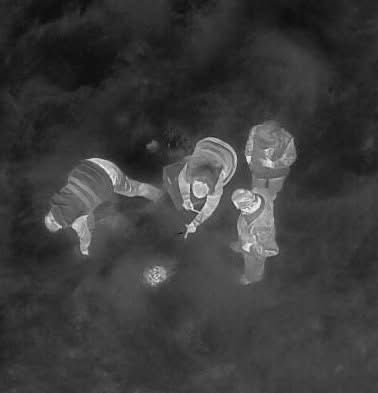
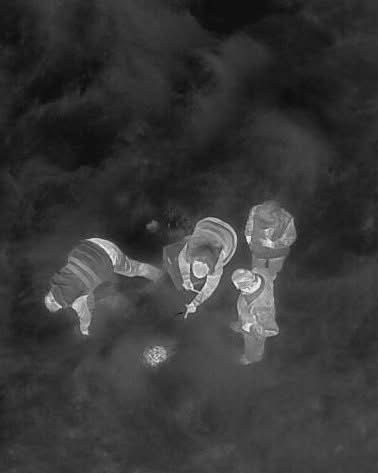
Neue Fotos: Rehkitz im Gras (3-fache Auflösung), Wärmebild vollständig, Drohnenstart bei Nacht, Kinder lernen die Drohne kennen
Claude-Session: https://claude.ai/code/session_01SvUTgmYBcr7ZNo88VgeWhH

diff --git a/kitzrettung-website/src/pages/ueber-uns.html b/kitzrettung-website/src/pages/ueber-uns.html
@@ -122,7 +122,7 @@ image: /images/about-nachwuchsarbeit.jpg
         <div class="kachel__text"><div class="kachel__nummer">01</div><h3>Moderne Technik &amp; Einsatz</h3><p>Mit unseren vereinseigenen Drohnenteams suchen wir Wiesen im Morgengrauen mit Wärmebildkameras ab. Pilotinnen, Spotter und Helfer sichern gefundene Kitze behutsam und lassen sie nach der Mahd am Fundort wieder frei.</p></div></div>
       <div class="kachel"><div class="kachel__bild"><img src="/images/about-starke-gemeinschaft.jpg" alt="Die Helferinnen und Helfer stehen gemeinsam auf einer Wiese." loading="lazy"></div>
         <div class="kachel__text"><div class="kachel__nummer">02</div><h3>Starke Gemeinschaft</h3><p>Landwirtschaft, Jagd und unser ehrenamtliches Team stimmen sich eng ab. Viele von uns starten noch vor Sonnenaufgang – weil jede helfende Hand zählt. Mitmachen kannst du ab 16 Jahren.</p></div></div>
-      <div class="kachel"><div class="kachel__bild"><img src="/images/news/kinder-kitzrettung-2026.jpg" alt="Kinder lernen die Kitzrettung kennen." loading="lazy" style="object-position:bottom"></div>
+      <div class="kachel"><div class="kachel__bild"><img src="/images/kita-drohne-erklaeren.jpg" alt="Vereinsmitglieder zeigen Kindern in Warnwesten eine Drohne." loading="lazy" style="object-position:center 30%"></div>
         <div class="kachel__text"><div class="kachel__nummer">03</div><h3>Nachwuchsarbeit &amp; Umweltbildung</h3><p>Bei Aktionen in Kindergärten und Grundschulen entdecken Kinder heimische Wildtiere und lernen, der Natur mit Respekt zu begegnen.</p></div></div>
     </div>
   </div>

diff --git a/kitzrettung-website/src/pages/mitmachen/drohnenpilot.html b/kitzrettung-website/src/pages/mitmachen/drohnenpilot.html
@@ -14,7 +14,7 @@ image: /images/drone-gallery-preflight.jpg
 
 <section class="abschnitt">
   <div class="container zweispaltig">
-    <div class="zweispaltig__bild"><img src="/images/drone-gallery-preflight.jpg" alt="Drohnenpiloten bereiten die Drohne auf dem Landeplatz vor." loading="lazy" style="aspect-ratio:4/5"></div>
+    <div class="zweispaltig__bild"><img src="/images/drohnenstart-nacht.jpg" alt="Ein Drohnenpilot mit Stirnlampe hält vor Sonnenaufgang die beleuchtete Drohne zum Start hoch, daneben der Landeplatz." loading="lazy" style="aspect-ratio:4/5;object-position:center 35%"></div>
     <div>
       <h2>Deine Aufgaben im Team</h2>
       <ul class="haken">
@@ -37,7 +37,7 @@ image: /images/drone-gallery-preflight.jpg
   <div class="container">
     <h2>Eindrücke aus gemeinsamen Einsätzen</h2>
     <div class="galerie">
-      <img src="/images/search-process-step-05-drone-launch.jpg" alt="Ein Drohnenpilot hält die Drohne vor dem Start hoch." loading="lazy">
+      <img src="/images/drone-gallery-preflight.jpg" alt="Das Drohnenteam bereitet am Landeplatz den Flug vor." loading="lazy">
       <img src="/images/drones-info-thermal.jpg" alt="Wärmebildansicht einer Wiese aus der Luft." loading="lazy">
       <img src="/images/drones-card-team.jpg" alt="Das Drohnenteam bereitet die Ausrüstung vor." loading="lazy">
       <img src="/images/search-process-step-06-ground.jpg" alt="Drohnenaufnahme der Helfer an der Fundstelle." loading="lazy">

diff --git a/kitzrettung-website/src/pages/methoden-der-kitzrettung.html b/kitzrettung-website/src/pages/methoden-der-kitzrettung.html
@@ -15,7 +15,7 @@ image: /images/methods-vergraemung.jpg
   <div class="container">
     <ol class="schritte">
       <li class="schritt">
-        <div class="schritt__bild"><img src="/images/search-process-step-06-thermal.jpg" alt="Wärmebild einer Wiese, auf dem ein Kitz als heller Punkt zu sehen ist." loading="lazy"></div>
+        <div class="schritt__bild"><img src="/images/search-process-step-06-thermal.jpg" alt="Wärmebild aus der Luft: Helfer stehen an der Fundstelle, das Kitz leuchtet als heller Fleck im kühlen Gras." loading="lazy" style="object-position:center 72%"></div>
         <div class="schritt__text"><span class="kicker">Effektivste Methode</span><span class="schritt__wann">Häufig ab 04:00 Uhr</span><h3>Drohnensuche mit Wärmebildkamera</h3>
           <p>In den frühen Morgenstunden fliegt das Team die Wiese systematisch ab. Die Wärmebildkamera macht Temperaturunterschiede zwischen einem Tier und dem kühleren Gras sichtbar.</p>
           <ul><li>Pilot und Spotter beobachten das Wärmebild und halten Funkkontakt zu den Helfern am Boden.</li><li>Gefundene Kitze werden in einer geschützten Box gesichert und nach der Mahd freigelassen.</li></ul></div>

diff --git a/kitzrettung-website/src/pages/index.html b/kitzrettung-website/src/pages/index.html
@@ -51,7 +51,7 @@ description: Kitzrettung Limburg e. V. – ehrenamtliche Rehkitzrettung mit Wär
         <div class="kachel__text"><h3>Drohne</h3><p>Wärmebilddrohnen fliegen die Wiese auf einer geplanten Route ab – meist schon ab 4 Uhr morgens, solange das Gras noch kühl ist.</p></div>
       </div>
       <div class="kachel">
-        <div class="kachel__bild"><img src="/images/search-process-step-06-thermal.jpg" alt="Wärmebild einer Wiese mit einem hellen Punkt – dem versteckten Kitz." loading="lazy"></div>
+        <div class="kachel__bild"><img src="/images/search-process-step-06-thermal.jpg" alt="Wärmebild aus der Luft: Helfer stehen an der Fundstelle, das Kitz leuchtet als heller Fleck im kühlen Gras." loading="lazy" style="object-position:center 72%"></div>
         <div class="kachel__text"><h3>Wärmebild</h3><p>Die Kamera macht den Temperaturunterschied zwischen Tier und Gras sichtbar. Wo Drohnen nicht fliegen können, suchen Freiwillige von Hand.</p></div>
       </div>
       <div class="kachel">

diff --git a/kitzrettung-website/src/pages/fuer-kids.html b/kitzrettung-website/src/pages/fuer-kids.html
@@ -38,7 +38,7 @@ image: /images/news/kinder-kitzrettung-2026.jpg
 
 <section class="abschnitt">
   <div class="container zweispaltig">
-    <div class="zweispaltig__bild"><img src="/images/news/infostand-kitzrettung-limburg-maerz-2026.jpg" alt="Infostand der Kitzrettung Limburg mit Bastelzelt." loading="lazy" style="aspect-ratio:3/4"></div>
+    <div class="zweispaltig__bild"><img src="/images/kita-drohne-erklaeren.jpg" alt="Zwei Vereinsmitglieder erklären Kindern in Warnwesten die Wärmebilddrohne." loading="lazy" style="aspect-ratio:3/4"></div>
     <div>
       <p class="kicker">Für Kitas und Grundschulen</p>
       <h2>Wir kommen auch zu euch!</h2>
